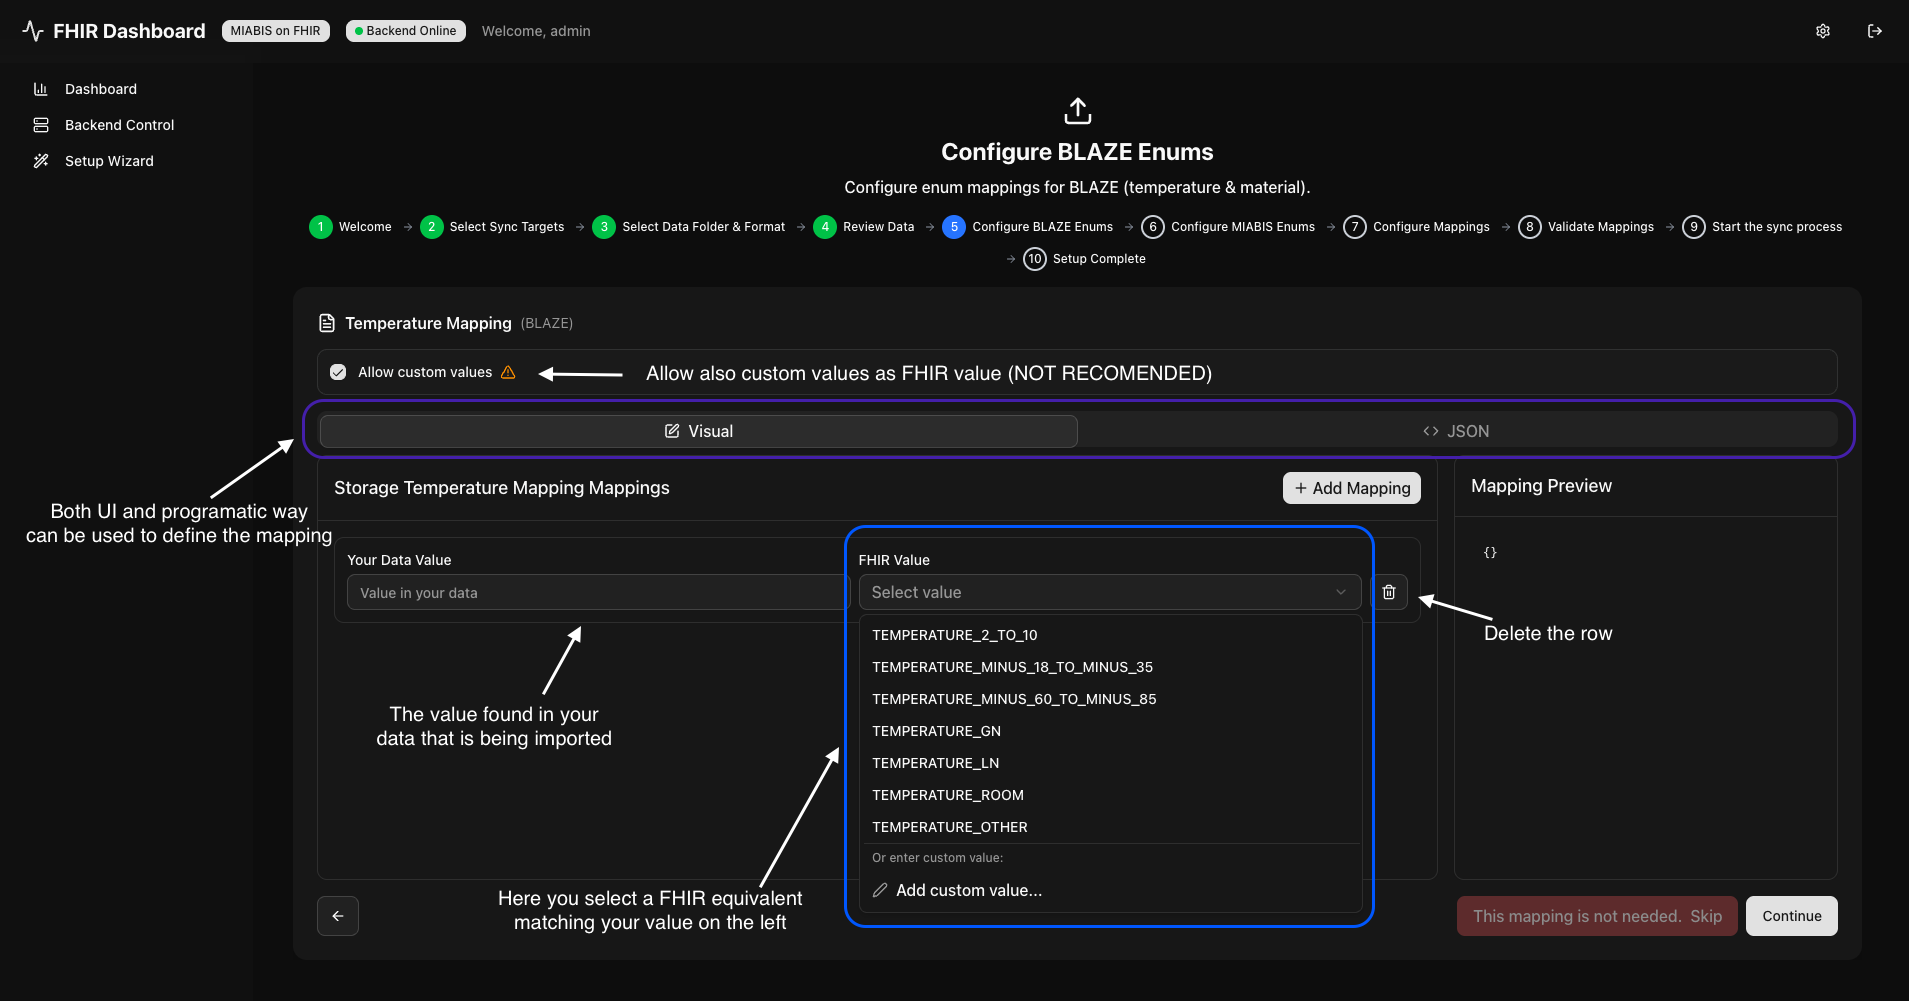
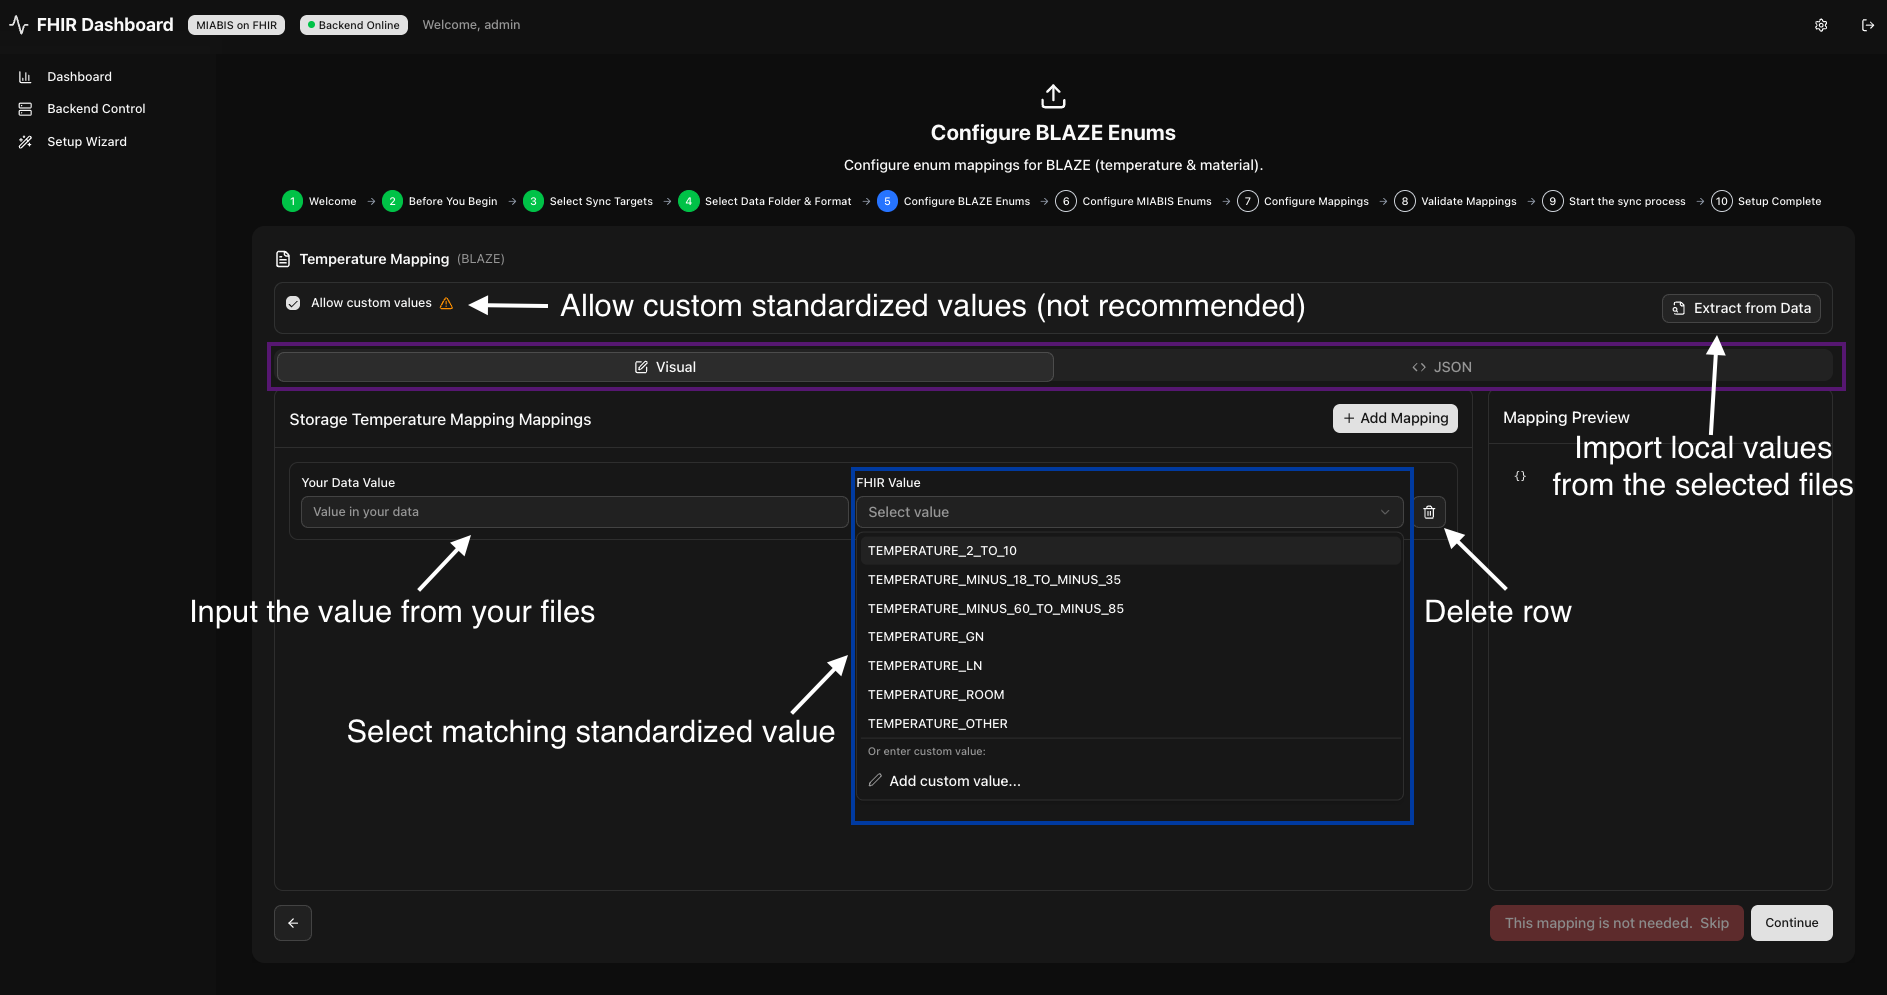
fix: docs update

diff --git a/service/miabis_blaze_service.py b/service/miabis_blaze_service.py
@@ -10,7 +10,6 @@ import json
 
 from requests import HTTPError
 
-from exception.wrong_parsing_map import WrongParsingMapException
 from model.miabis.collection_miabis import CollectionMiabis
 from model.miabis.sample_donor_miabis import SampleDonorMiabis
 from model.miabis.sample_miabis import SampleMiabis
@@ -86,6 +85,8 @@ class MiabisBlazeService(BlazeServiceInterface):
             collection_summary = {'processed': 0, 'failed': 0, 'skipped': 0}
             pat_summary = {'processed': 0, 'failed': 0, 'skipped': 0}
             samp_summary = {'processed': 0, 'failed': 0, 'skipped': 0}
+            condition_summary = {'processed': 0, 'failed': 0, 'skipped': 0}
+
             if self.metrics:
                 self.metrics.set_sync_phase(1)  # Phase 1: Biobank and Collections
             biobank_collection_summary = self.sync_biobank_and_collections()

diff --git a/docs/DEPLOYMENT.md b/docs/DEPLOYMENT.md
@@ -38,15 +38,14 @@ The supported profiles are:
 
 ```shell
 --profile prod
---profile combined
---profile ui --profile prod # for separate deployment of UI & fhir-module (not recommended)
+--profile dev
 --profile monitoring # to be added to the other profiles to enable monitoring
 ```
 
 A complete example is then:
 
 ```shell
-docker compose --profile combined --profile monitoring up -d
+docker compose --profile dev --profile monitoring up -d
 ```
 
 This will pull the latest image and start the application. To check the logs run:
@@ -71,7 +70,7 @@ On first deployment, the UI will automatically:
 
 ### Environment variables
 
-The FHIR module is configured via environment variables, all of which can be found below. These values **MUST** be present on the .env file in the same folder as the `compose.yaml` file.
+The FHIR module is configured via environment variables, all of which can be found below.
 
 | Variable name        | Required                       | Default value              | Description                                                                                                                                                                        |
 | -------------------- | ------------------------------ | -------------------------- | ---------------------------------------------------------------------------------------------------------------------------------------------------------------------------------- |
@@ -85,21 +84,6 @@ The FHIR module is configured via environment variables, all of which can be fou
 | SMTP_PORT            | false                          | 1025                       | Port number sued to connect to the SMTP server for sending notification mails about fresshnes of records.                                                                          |
 | EMAIL_RECEIVER       | false                          | test@example.com           | Mail address that the notification emails will be send to.                                                                                                                         |
 | LOG_LEVEL            | false                          | INFO                       | minimum severity of logs to be recorded. values are : INFO, DEBUG,ERROR                                                                                                            |
-
-### Fhir module setup
-
-To allow the setup modification while running the subset of change-prone variables are specified in `/util/shared_config.json`. This file is pre-seeded with some default values, but to work properly, adjustments need made per-deployment.
-
-**Important**: The `shared_config.json` file is mounted as a bind mount from your host system into the container. This means:
-
-- **Directly Editable**: You can edit `util/shared_config.json` on your host machine using any text editor
-- **Immediate Updates**: The application reads directly from this bind-mounted file, so your changes are immediately available (config is reloaded on next access)
-- **No Container Rebuild**: No need to rebuild the image or exec into the container to make configuration changes
-- **UI Integration**: The web UI can also modify this file programmatically, and changes will be reflected on your host system
-- **Persistent**: Changes persist across container restarts since the file lives on your host
-
-| Variable name                 | Required                                   | Default value                                          | Description                                                                                                                                                        |
-| ----------------------------- | ------------------------------------------ | ------------------------------------------------------ | ------------------------------------------------------------------------------------------------------------------------------------------------------------------ |
 | PARSING_MAP_PATH              | false (can be set by the UI)               | /opt/fhir-module/default_map.json                      | Path to a JSON file containing object parsing mappings. Example [here](../util/default_map.json).                                                                  |
 | MATERIAL_TYPE_MAP_PATH        | false (can be set by the UI)               | /opt/fhir-module/default_material_type_map.json        | Path to a JSON file containing mappings between organizational and FHIR material types. Example [here](../util/default_material_type_map.json).                    |
 | MIABIS_MATERIAL_TYPE_MAP_PATH | false (can be set by the UI)               | /opt/fhir-module/default_miabis_material_type_map.json | Path to a JSON file containing mappings between organizational and MIABIS on FHIR material types. Example [here](../util/default_miabis_material_type_map.json)    |
@@ -184,8 +168,6 @@ PASSWORD_REQUIRE_SPECIAL_CHARS=true
 PASSWORD_SPECIAL_CHARS="!@#$%^&*()_+-=[]{}|;:,.<>?"
 
 ```
-
-The `/util/shared_config.json` must be modified by hand if not using UI, otherwise only the required fields must be set before start.
 
 ## Object mapping
 

diff --git a/docs/ui-user-manual/UI_USER_MANUAL.md b/docs/ui-user-manual/UI_USER_MANUAL.md
@@ -32,21 +32,20 @@ In this step user must specify the **folder that contains the file for the impor
 
 ![Target Folder Page](assets/select-folder.png)
 
-### Detected files review
-After the folder is selected, user can review the detected files.
-
-![Detected Files Page](assets/found-files-review.png)
-
 ### ENUM mapping configuration
-The first part of the setup process involves setting up the Temperature and Material mappings. If multiple targets are selected in the first step of the wizard, this needs to be done for each separately. As the data might not contain material or temperature values, these steps can be skipped, although this is **NOT** advised.
+The first part of the setup process involves setting up the Temperature and Material mappings. If multiple targets are selected in the first step of the wizard, this needs to be done for each separately. As the data might not contain material or temperature values, these steps can be skipped, if the imported data do **NOT** contain information on these.
 
 The mapping definition requires the users's output in a way that they must know what values can be found in the data they import and how they map to the standardized values in the dropdowns.
 
 Both visual and manual/expert-mode approach are supported. The user can either define the mappings using the UI, or switch the tab to **JSON** and define/copy the mapping in a `JSON` format that is processed and the fields are populated from it. Combination of both approaches is also possible, however, when editing the JSON manually, it has to be valid before the user is allowed to continue further.
 
 The process of mapping the Temperature and Materials is the same, example and UI explanation is shown below.
-
 ![Enum Mapping](assets/enum-mapping-configuration.png)
+
+#### Extract values from data
+The functionality allows the user to select one or multiple paths, from which the `Your Data Value` fields will be populated, so the user does not have to know what all values need to be mapped.
+**! IMPORTANT !**
+The extract functionality provides a best effort service. This is due to performance constraints.Only up to 1000 files from the import folder will be processed, and values from those extracted. Based on the value distribution and count, the extraction result might or might not be complete. Manual check is always required after this.
 
 ### Type to collection mapping
 After the enum mappings are defined, it is needed to specify how the records are divided to defined collections. This is done in a similar way as the enum mappings, the only difference is the user must know both what value specifies the collection and the name of the collection.
@@ -151,14 +150,14 @@ See the picture below:
 
 Before the sync operation can commence, the smoke validation of the defined schemas needs to be done. the validation step checks if all required values are mapped and if the enum mappings contain the values found in the imported files.
 
-User can either perform a quick validation of only a single file, or opt for a full validation of the whole folder that is being imported. The full validation can take a long time, based on the count and amount of the imported data, however, this approach is better, since it check for all the enum values found in all the files, same as the structure of all the imported files.
+User can either perform a quick validation of only a single file, or opt for a full validation of the folder that is being imported. **IMPORTANT** same as in the case of the ENUM value export from the files, the full validation provides a best effort service. Only up to 1000 imported files will be checked, since the full check of the imported folder might not be possible (if it contains too many files). 
 
 Based on how the system is configured, both the standard blaze and MIABIS must pass co continue.
 
 ![Validation Page](assets/validation-page.png)
 
 ### Sync page
-The last step is to trigger the sync process. This is done by pressing the button. A progress bars will appear showing the sync progress per-target. When sync is done, continue to the wrap-up screen. The dashboard will now show details regarding the counts of entities in the blaze databases.
+The last step is to apply the created mappings and optionally trigger the sync process. This is done by pressing the respective button. The dashboard will now show details regarding the counts of entities in the blaze databases.
 
 ![Sync Page](assets/sync-page.png)
 

diff --git a/docs/UI.md b/docs/UI.md
@@ -24,16 +24,12 @@ The UI application (`fhir-place`) is a Next.js application that offers:
 ### Dashboard
 
 - Real-time system health monitoring
-- Synchronization status indicators
-- Prometheus metrics integration
-- System uptime and performance metrics
+- Data information
 
 ### Backend Control
 
-- Start/stop FHIR module operations
+- Control FHIR module operations
 - Monitor synchronization processes
-- View operation logs and status
-- Manual trigger for data synchronization
 
 ### Settings
 
@@ -88,17 +84,6 @@ The UI is built using:
 
 5. Open [http://localhost:3000](http://localhost:3000) in your browser.
 
-### Available Scripts
-
-- `npm run dev`: Start development server
-- `npm run build`: Build for production
-- `npm run start`: Start production server
-- `npm run db:init`: Initialize database with seed data
-- `npm run db:generate`: Generate database schema
-- `npm run db:migrate`: Run database migrations
-- `npm run test`: Run tests
-- `npm run test:watch`: Run tests in watch mode
-
 ## Docker Deployment
 
 The UI is containerized and deployed alongside the main FHIR module using Docker Compose.
@@ -108,14 +93,7 @@ The UI is containerized and deployed alongside the main FHIR module using Docker
 From the project root directory:
 
 ```bash
-docker compose --profile ui up
-```
-
-Note that the UI container is **heavily** dependant on the prod / dev containers (best to run as combined)
-
-```bash
-# Best to the whole stack
-docker compose --profile combined up -d
+docker compose --profile dev up
 ```
 
 The UI will be available at [http://localhost:3000](http://localhost:3000).

diff --git a/docs/MONITORING.md b/docs/MONITORING.md
@@ -17,7 +17,7 @@ To enable monitoring containers use the `monitoring` profile for docker compose 
 
 ```bash
 # Run the prod profile with the monitoring included
-docker compose --profile monitoring --profile prod up
+docker compose --profile monitoring --profile dev up
 
 ```
 
@@ -40,28 +40,11 @@ docker compose --profile monitoring --profile prod up
 Manually copy and configure the template files:
 
 1. **Copy Prometheus configuration:**
-
-   ```bash
-   # Copy template to Prometheus container
-   docker cp config/prometheus.template.yml <prometheus-container>:/etc/prometheus/prometheus.yml
-
-   # Manually substitute environment variables in the file as described above
-
-   # Restart Prometheus
-   docker restart <prometheus-container>
-   ```
-
-2. **Copy Promtail configuration:**
-
-   ```bash
-   # Copy template to Promtail container
-   docker cp config/promtail-config.template.yaml <promtail-container>:/etc/promtail/promtail-config.yaml
-
-   # Manually substitute environment variables in the file as described above
-
-   # Restart Promtail
-   docker restart <promtail-container>
-   ```
+   Populate the `prometheus.template.yml` and `promtail-config.template.yaml` with actual values, instead of the placeholders.
+2. **Rename the files**
+   `prometheus.template.yml` => `prometheus.yml`
+   `promtail-config.template.yaml` => `promtail-config.yaml` 
+3. Set up the paths in the `compose.yaml`, in case the configs are stored elsewhere than the compose expects
 
 ### Grafana cloud setup
 
